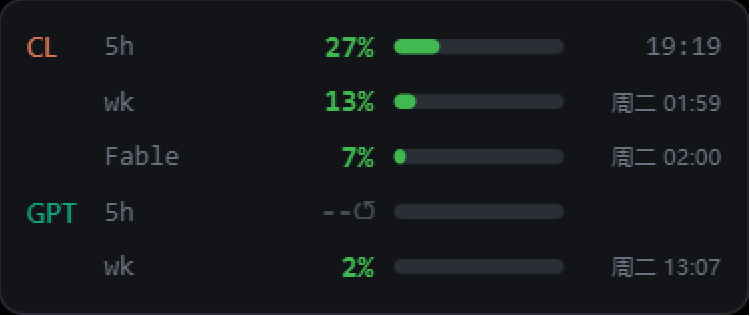
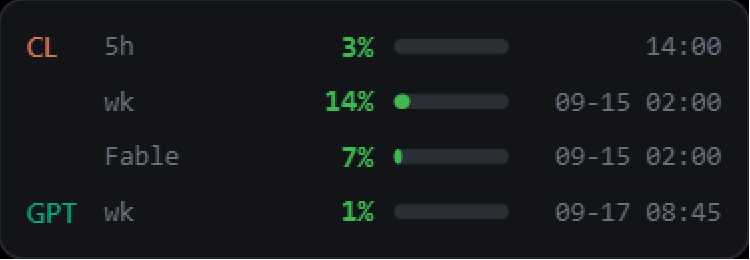
fix: ChatGPT 窗口标签按 window_minutes 推导，日期改用具体日期
- 修复标签错乱：键名 primary/secondary 只是位置不是窗口长度。prolite 套餐的
  primary 是 10080 分钟（周窗）、secondary 为 null，而 plus 的 primary 是
  300 分钟（5 小时窗）。此前按键名硬编码，把周额度标成了 5h —— 界面上表现为
  "5h 1%" 配 167 小时倒计时，自相矛盾
- 重置时间去掉"周二"式星期名，一律用具体日期（当天仍只显示时刻）
- 进度条右边界内收，给 "09-15 02:00" 留出宽度。此前日期压在进度条上且首位被裁
- README 记录 Luna Reserve 的调查结论：字段在 additional_rate_limits 里，
  但 Codex CLI 日志从不下发（实测 106 个会话），只能走带反爬的内部接口
- .vbs 改为纯 ASCII（WScript 按系统 ANSI 代码页读文件，中文注释会吃掉引号）

diff --git a/sources.py b/sources.py
@@ -242,25 +242,42 @@ def _tail(path: str, nbytes: int = 512 * 1024) -> str:
         return f.read().decode("utf-8", "replace")
 
 
-# primary/secondary 是目前见过的全部窗口键，但同样不做白名单：
-# 任何带 used_percent 的字典都当成一条限额显示。
-_CODEX_LABELS = {"primary": "5h", "secondary": "wk"}
+# 键名 primary/secondary 只是位置，不代表窗口长度 —— 换套餐会变。
+# 实测 prolite 计划的 primary 是 10080 分钟（周窗），secondary 为 null；
+# 而 plus 计划的 primary 是 300 分钟（5 小时窗）。所以标签必须由
+# window_minutes 推出来，按键名硬编码会把周额度标成 5h。
+_CODEX_FALLBACK_LABELS = {"primary": "主", "secondary": "次"}
+
+
+def _window_label(blk: dict, key: str) -> str:
+    wm = blk.get("window_minutes")
+    if isinstance(wm, (int, float)) and wm > 0:
+        wm = int(wm)
+        if wm >= 10080 and wm % 10080 == 0:
+            n = wm // 10080
+            return "wk" if n == 1 else "%dwk" % n
+        if wm >= 1440:
+            return "%dd" % round(wm / 1440)
+        if wm >= 60:
+            return "%dh" % round(wm / 60)
+        return "%dm" % wm
+    return _CODEX_FALLBACK_LABELS.get(key, key.replace("_", " ")[:8])
 
 
 def _parse_codex_limits(rl: dict) -> "list[Reading]":
-    out = []
+    ranked = []
     for key, blk in rl.items():
-        if not isinstance(blk, dict):
+        if not isinstance(blk, dict) or blk.get("used_percent") is None:
             continue
-        if blk.get("used_percent") is None:
-            continue
-        out.append(Reading(
-            "chatgpt", _CODEX_LABELS.get(key, key.replace("_", " ")[:8]),
-            float(blk["used_percent"]), blk.get("resets_at"),
+        wm = blk.get("window_minutes")
+        ranked.append((
+            wm if isinstance(wm, (int, float)) else 1 << 30,
+            Reading("chatgpt", _window_label(blk, key),
+                    float(blk["used_percent"]), blk.get("resets_at")),
         ))
-    # 排序：认识的窗口在前，其余按名字排，保证行序稳定不会每次刷新乱跳
-    order = {"5h": 0, "wk": 1}
-    out.sort(key=lambda r: (order.get(r.label, 2), r.label))
+    # 短窗口排前面。行序必须稳定，否则每次刷新都会跳
+    ranked.sort(key=lambda t: t[0])
+    out = [r for _, r in ranked]
 
     # 付费余量：只有真的启用了才占一行，否则一直显示 "余额 0" 是噪音。
     # 它是绝对值不是百分比，走 text 字段，前端不给它画进度条。

diff --git a/display.py b/display.py
@@ -49,17 +49,12 @@ def dimmed(hex_color: str, t: float = 0.55) -> str:
     return "#%02x%02x%02x" % (mix(fr, br), mix(fg_, bg_), mix(fb, bb))
 
 
-WEEKDAYS = "一二三四五六日"
-
-
 def fmt_reset(resets_at: Optional[float]) -> str:
     """把重置时刻格式化成本地绝对时间。
 
     倒计时（"5d"）看着紧凑，但没法指导行动 —— 你不知道该不该今晚省着用。
-    具体钟点才有用。按距离远近给不同精度，省列宽：
-        今天      -> "19:19"
-        一周内    -> "周二 02:00"
-        更远      -> "09-15 02:00"
+        今天   -> "19:19"
+        其他   -> "09-15 02:00"
     """
     if resets_at is None:
         return ""
@@ -72,8 +67,6 @@ def fmt_reset(resets_at: Optional[float]) -> str:
         return ""                       # 已经重置过，该行已用 ↺ 标记
     if t.date() == now.date():
         return t.strftime("%H:%M")
-    if (t - now).days < 7:
-        return "周%s %s" % (WEEKDAYS[t.weekday()], t.strftime("%H:%M"))
     return t.strftime("%m-%d %H:%M")
 
 

diff --git a/widget_qt.py b/widget_qt.py
@@ -23,7 +23,9 @@ CONFIG = os.path.join(sources.data_dir(), "config_qt.json")
 W = 300
 PAD_X, ROW_H, TOP = 11, 22, 8
 X_LABEL, X_PCT = 42, 150
-BAR_X0, BAR_X1, BAR_H = 158, 226, 6
+# 进度条右边界要给 "09-15 01:59" 留够宽度（约 70px）。条是装饰、时间是信息，
+# 宽度不够时先牺牲条。
+BAR_X0, BAR_X1, BAR_H = 158, 204, 6
 X_RESET_END = W - PAD_X
 MIN_ROWS = 4                    # 高度基准，实际行数少于它时也不至于窄成一条
 # 额度百分比变化很慢，而 /api/oauth/usage 有速率限制 —— 60 秒轮询纯属自伤。

diff --git a/widget_tk.py b/widget_tk.py
@@ -19,7 +19,8 @@ CONFIG = os.path.join(sources.data_dir(), "config_tk.json")
 W = 292
 ROW_H, TOP = 20, 8
 X_TAG, X_LABEL, X_PCT = 9, 42, 146
-BAR_X0, BAR_X1, BAR_H = 154, 220, 5
+# 进度条右边界要给 "09-15 01:59" 留够宽度。条是装饰、时间是信息，先牺牲条。
+BAR_X0, BAR_X1, BAR_H = 154, 200, 5
 X_RESET = W - 9
 MIN_ROWS = 4                      # 高度基准，行数少时也不至于窄成一条
 # 额度百分比变化很慢，而 /api/oauth/usage 有速率限制 —— 60 秒轮询纯属自伤。

diff --git a/README.md b/README.md
@@ -119,6 +119,18 @@ MIT，见 [LICENSE](LICENSE)。
 
 ## 已知限制
 
+**ChatGPT 的窗口标签由 `window_minutes` 推出，不看键名。** 不同套餐的
+`rate_limits` 结构不一样：`plus` 的 `primary` 是 300 分钟（5 小时窗），
+而 `prolite` 的 `primary` 是 10080 分钟（周窗）且 `secondary` 为 `null`。
+按 `primary`/`secondary` 硬编码标签会把周额度标成 5h。
+
+**Luna Reserve 拿不到。** ChatGPT 桌面端侧边栏那个 "Luna Reserve · 剩余 N%"
+来自 `additional_rate_limits[].rate_limit.primary_window`（字段名从
+`app.asar` 里的 `sidebarElectron.lunaReserve.*` 一路追出来的）。但 Codex CLI
+的会话日志**从不下发这个字段**（实测 106 个会话全无），它只存在于桌面端向
+`backend-api` 拉取的响应里。要显示它得调那个内部接口，而该接口有 Sentinel
+反爬机制，不值得。
+
 - Claude 那个接口是非公开的，Claude Code 大版本更新后可能变。真变了的话，
   `sources.py` 里 `USAGE_URL` / `OAUTH_BETA` 是要改的地方。
 - 125% 等 DPI 缩放下正常（布局按窗口实际逻辑尺寸算）。
